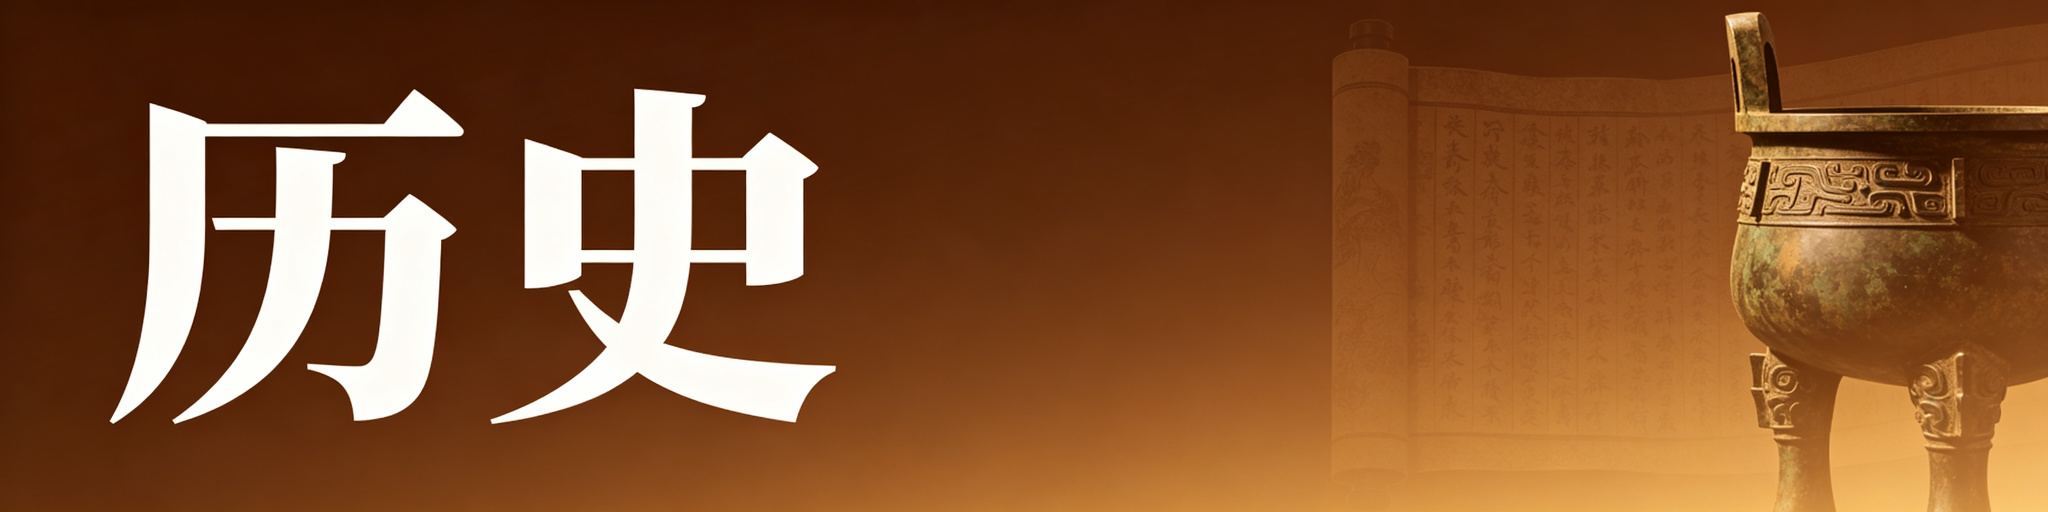
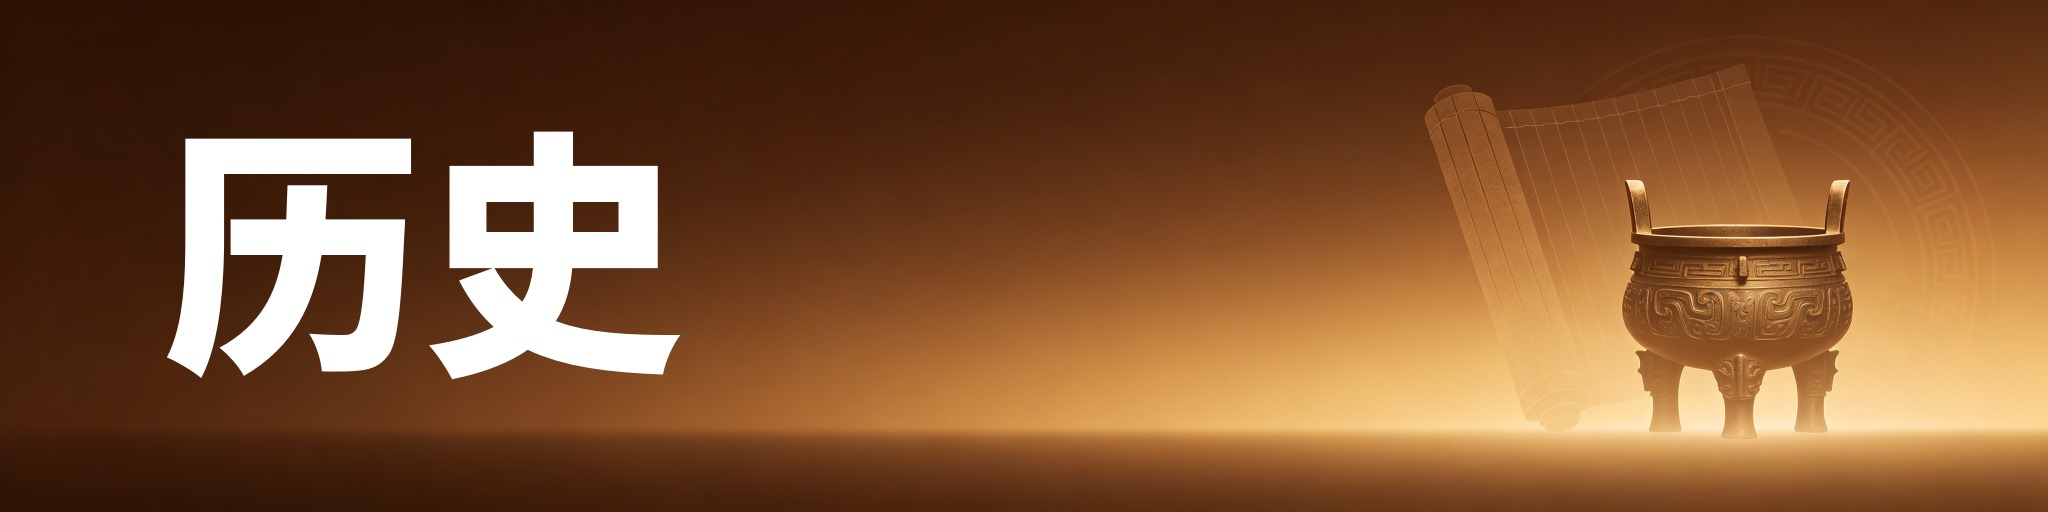
修复：历史/地理封面字体统一为粗黑体+近日动态仅阅读详情可点击
1. 历史封面：改用Noto Sans CJK SC Black粗黑体，与语文封面字体一致
2. 地理封面：同样改用粗黑体，文字完整显示
3. 近日动态卡片：外层改为div，仅阅读详情为<a>链接可跳转
4. favicon.ico重新生成确保透明底最新

diff --git a/index.html b/index.html
@@ -86,11 +86,49 @@
             <p class="section-desc">最新资料分享与学习动态，持续更新中</p>
         </div>
         <div class="news-grid">
-            <a href="https://xhslink.cn/o/7Ih5PeClTI3" target="_blank" class="news-card">
+            <div class="news-card">
                 <div class="news-cover">
                     <img src="images/news_english_vocab.jpg" alt="新九上英语单词表">
                     <span class="news-badge new">最新发布</span>
                 </div>
+                <div class="news-body">
+                    <h3 class="news-title">新九上英语单词表（官方版）</h3>
+                    <p class="news-desc">新课标人教版九年级上册英语单词表，与官方教材同步，高清可打印，附带音频链接。</p>
+                    <div class="news-footer">
+                        <span class="news-date">2025-08-20</span>
+                        <a href="https://xhslink.cn/o/7Ih5PeClTI3" target="_blank" class="news-link">阅读详情 →</a>
+                    </div>
+                </div>
+            </div>
+            <div class="news-card">
+                <div class="news-cover">
+                    <img src="images/news_chinese_exam.jpg" alt="2026年陕西中考语文试卷">
+                    <span class="news-badge hot">当前最热</span>
+                </div>
+                <div class="news-body">
+                    <h3 class="news-title">2026年陕西省中考语文试卷</h3>
+                    <p class="news-desc">2026年陕西省初中学业水平考试语文真题及答案解析，可直接打印使用，小红书同步更新。</p>
+                    <div class="news-footer">
+                        <span class="news-date">2025-08-15</span>
+                        <a href="https://xhslink.cn/o/8dY59N7XtBM" target="_blank" class="news-link">阅读详情 →</a>
+                    </div>
+                </div>
+            </div>
+            <div class="news-card">
+                <div class="news-cover">
+                    <img src="images/news_english_grammar.jpg" alt="Unit 7 Feel the Rhythm语法讲练">
+                    <span class="news-badge new">最新发布</span>
+                </div>
+                <div class="news-body">
+                    <h3 class="news-title">Unit 7 Feel the Rhythm（语法讲练）</h3>
+                    <p class="news-desc">九年级英语Unit 7语法知识点详解与配套练习，涵盖重点句型、时态和词汇用法。</p>
+                    <div class="news-footer">
+                        <span class="news-date">2025-08-10</span>
+                        <a href="https://xhslink.cn/o/9tjg9Np1Hzs" target="_blank" class="news-link">阅读详情 →</a>
+                    </div>
+                </div>
+            </div>
+        </div>
                 <div class="news-body">
                     <h3 class="news-title">新九上英语单词表（官方版）</h3>
                     <p class="news-desc">新课标人教版九年级上册英语单词表，与官方教材同步，高清可打印，附带音频链接。</p>
